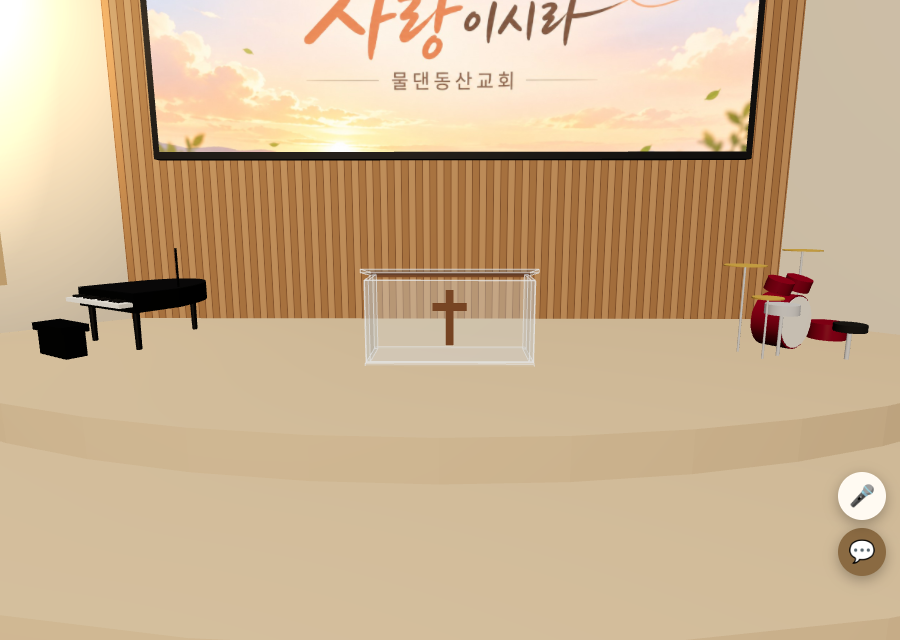
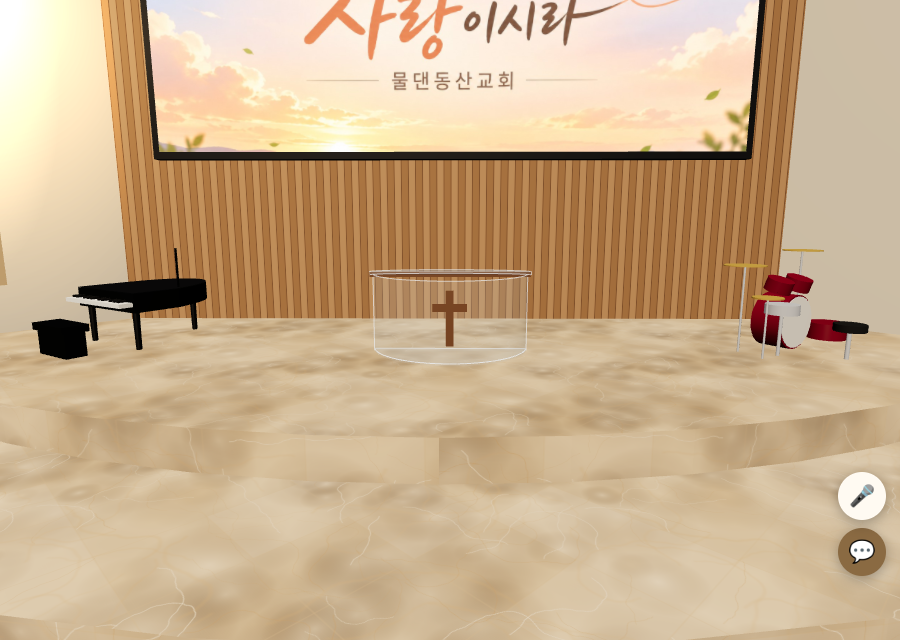
Rounded half-moon acrylic pulpit
Claude-Session: https://claude.ai/code/session_01Vz1QJf3UdmpjXu7m5EnhFF

diff --git a/index.html b/index.html
@@ -1813,7 +1813,7 @@
       geo.setAttribute('uv', new THREE.BufferAttribute(uv, 2));
       return geo;
     }
-    // ---- 투명 아크릴 강대상 (사용자 요청): 원래 강대상 상자는 보이지 않게만 하고(걷기 막힘은 그대로) 같은 자리에 새로 그림 ----
+    // ---- 투명 아크릴 강대상 (사용자 요청, 앞이 둥근 모양): 원래 강대상 상자는 보이지 않게만 하고(걷기 막힘은 그대로) 같은 자리에 새로 그림 ----
     function acrylicPulpit(g, pulpit) {
       const W = 1.1, D = 0.5, H = 0.6;                           // 화면에 보일 크기: 폭 1.1 · 깊이 0.5 · 높이 0.6 (캐릭터 0.8m)
       pulpit.scale.x = W / 1.4; pulpit.scale.z = D / 0.65;        // 막힘 상자도 같은 크기로
@@ -1830,12 +1830,24 @@
         if (m === acr) me.add(new THREE.LineSegments(new THREE.EdgesGeometry(geo), edge)); else me.castShadow = true;
         return me;
       };
-      part(W, 0.02, D, 0, 0.01, 0, acr);                                          // 바닥 판
-      part(W, H - 0.06, 0.025, 0, 0.02 + (H - 0.06) / 2, D / 2 - 0.05, acr);      // 앞판
-      [-1, 1].forEach((sx) => part(0.025, H - 0.06, D - 0.12, sx * (W / 2 - 0.0125), 0.02 + (H - 0.06) / 2, 0.0, acr));   // 옆판
-      part(W + 0.04, 0.022, D - 0.04, 0, H - 0.01, -0.01, acr, -0.14);            // 위판 (설교자 쪽으로 기울어짐)
-      part(W + 0.04, 0.035, 0.03, 0, H - 0.045, -D / 2 + 0.02, wood);             // 위판 뒤 받침 (원고가 미끄러지지 않게)
-      const fz = D / 2 - 0.05 + 0.0125 + 0.008;                                   // 앞판 앞면에 나무 십자가
+      // 둥근 모양 (사용자 요청): 뒤는 곧고 앞은 회중 쪽으로 둥글게 나온 반달꼴. 뒤 z=-0.2, 앞 끝 z=+0.25
+      const BZ = -0.2, FZ = 0.25, HW = W / 2, R = (HW * HW + (FZ - BZ) ** 2) / (2 * (FZ - BZ)), CZ = FZ - R, AL = Math.asin(HW / R);
+      const plate = (grow, h, y, m, rx) => {                                       // 반달꼴 판 (grow만큼 둘레를 키움)
+        const sh = new THREE.Shape(); sh.moveTo(-HW - grow, -(BZ - grow));
+        for (let i = 0; i <= 32; i++) { const t = -AL + (2 * AL * i) / 32; sh.lineTo((R + grow) * Math.sin(t), -(CZ + (R + grow) * Math.cos(t))); }
+        sh.lineTo(-HW - grow, -(BZ - grow));
+        const geo = new THREE.ExtrudeGeometry(sh, { depth: h, bevelEnabled: false, curveSegments: 1 }); geo.rotateX(-Math.PI / 2);
+        const me = new THREE.Mesh(geo, m); me.position.y = y; if (rx) me.rotation.x = rx; P.add(me);
+        if (m === acr) me.add(new THREE.LineSegments(new THREE.EdgesGeometry(geo, 20), edge));
+        return me;
+      };
+      plate(0, 0.02, 0, acr);                                                      // 바닥 판
+      const PH = H - 0.06, shell = new THREE.CylinderGeometry(R, R, PH, 48, 1, true, -AL, 2 * AL);   // 둥근 앞판 (옆까지 감쌈)
+      const front = new THREE.Mesh(shell, acr); front.position.set(0, 0.02 + PH / 2, CZ); P.add(front);
+      front.add(new THREE.LineSegments(new THREE.EdgesGeometry(shell, 20), edge));
+      plate(0.025, 0.022, H - 0.02, acr, -0.12);                                    // 위판 (설교자 쪽으로 살짝 기울어짐)
+      part(W + 0.04, 0.035, 0.03, 0, H - 0.04, BZ + 0.01, wood);                    // 위판 뒤 받침 (원고가 미끄러지지 않게)
+      const fz = FZ + 0.01;                                                         // 둥근 앞면 가운데에 나무 십자가
       part(0.05, 0.36, 0.016, 0, 0.32, fz, wood); part(0.22, 0.05, 0.016, 0, 0.39, fz, wood);
       P.traverse((o) => { o.userData.noCamBlock = true; o.userData.pickOnly = true; o.raycast = () => {}; });
     }

diff --git a/docs/verification/2026-11-05/REPORT.md b/docs/verification/2026-11-05/REPORT.md
@@ -328,3 +328,7 @@
 ## 강단: 바닥보다 조금 짙은 대리석 (사용자 요청)
 - 강단 두 단(`B1_FINAL_Stage_Tier_0/1`)을 바닥 대리석과 같은 방식(다른 무늬)으로, 색만 조금 짙게. 윗단이 아랫단보다 아주 조금 더 짙음. 계단 앞면은 가로·높이로 무늬를 붙여 줄무늬가 안 생기게 함.
 - 검사: `pulpit2.cjs stage` → `stage-front.png`, `stage-hall.png`, 오류 없음.
+
+## 아크릴 강대상을 둥근 모양으로 (사용자 요청)
+- 뒤는 곧고 앞은 회중 쪽으로 둥글게 나온 반달꼴(폭 1.1m, 깊이 0.45m). 앞판은 옆까지 감싸는 곡면 아크릴, 바닥판·위판도 같은 반달꼴. 십자가는 둥근 앞면 가운데.
+- 검사: `pulpit2.cjs pulpit` → `pulpit-front/side/hall.png`, 오류 없음.
